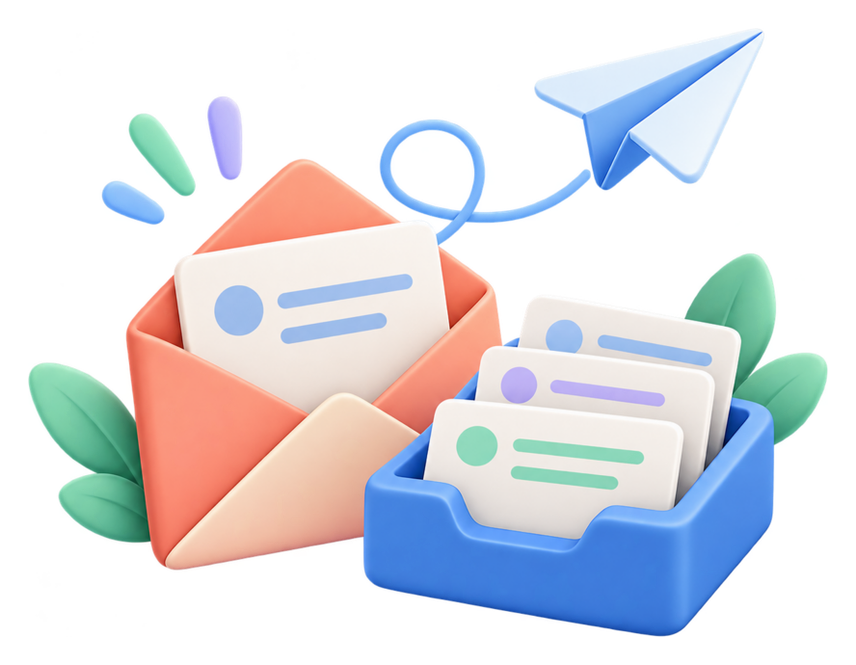
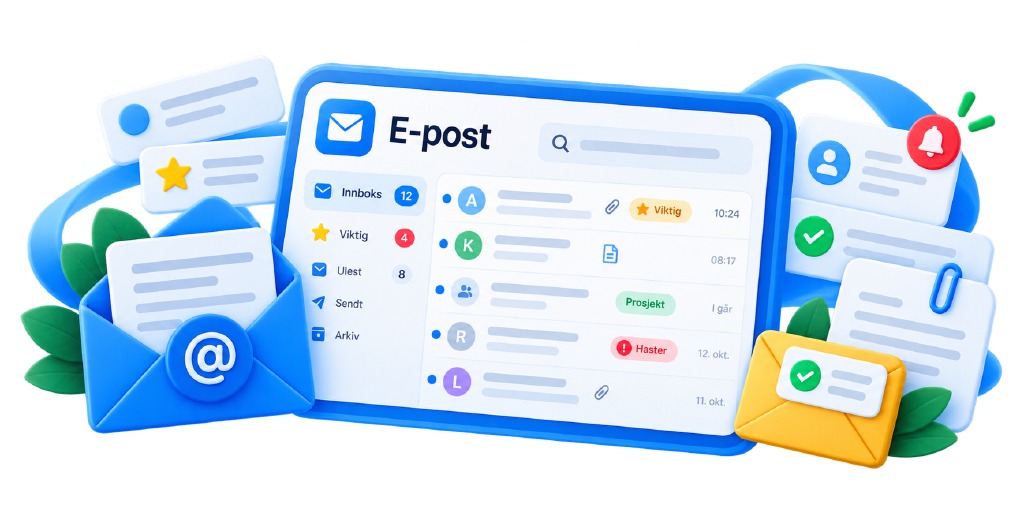
Vis heading-illustrasjoner på kalender, e-post, oppgaver, notat, venner, selskap og underenheter.
Bildene ligger i heading-båndet, samme spor som timerapport, timesaldo og vurdering av aktuelle.

diff --git a/src/modules/moduleHero.js b/src/modules/moduleHero.js
@@ -23,6 +23,7 @@ const DEFAULT_PALETTE = BLUE;
 export const MODULE_HERO = {
   stars: {
     ...BLUE,
+    wideArt: true,
     kicker: t('Oppgaver', 'Tasks'),
     title: t('Få oversikt og få ting gjort', 'See it all — and get it done'),
     pitch: t(
@@ -32,6 +33,7 @@ export const MODULE_HERO = {
   },
   notes: {
     ...LAVENDER,
+    wideArt: true,
     kicker: t('Notat', 'Notes'),
     title: t('Skap, samle og del tanker', 'Capture, collect and share ideas'),
     pitch: t(
@@ -202,6 +204,16 @@ export const MODULE_HERO = {
       'Give children clear tasks, the right amount of responsibility and encouragement to finish.',
     ),
   },
+  friends: {
+    ...BLUE,
+    wideArt: true,
+    kicker: t('Venner', 'Friends'),
+    title: t('Venner', 'Friends'),
+    pitch: t(
+      'Familien din vises øverst. Venner er personlige — de får ikke tilgang til familieplattformen.',
+      'Your family is shown first. Friends are personal — they never get family platform access.',
+    ),
+  },
   chat: {
     ...BLUE,
     kicker: t('Chat', 'Chat'),
@@ -213,6 +225,7 @@ export const MODULE_HERO = {
   },
   plan: {
     ...BLUE,
+    wideArt: true,
     kicker: t('Kalender', 'Calendar'),
     title: t('Din kalender, én plan', 'Your calendar, one plan'),
     pitch: t(
@@ -222,6 +235,7 @@ export const MODULE_HERO = {
   },
   mail: {
     ...BLUE,
+    wideArt: true,
     kicker: t('E-post', 'Mail'),
     title: t('Viktige meldinger, samlet', 'Important messages, together'),
     pitch: t(

diff --git a/src/modules/moduleActivationLogic.js b/src/modules/moduleActivationLogic.js
@@ -18,7 +18,7 @@ export const ILLUSTRATION_DIR = '/assets/module-activation';
 /** Bump when illustration bytes change. Filenames stay stable, so web URLs
  *  must change or browsers keep the old PNG (Firebase caches /assets/* as
  *  immutable for a year). */
-export const ILLUSTRATION_CACHE = '20261015c';
+export const ILLUSTRATION_CACHE = '20261015d';
 
 export function withIllustrationCache(path) {
   if (!path) return path;
@@ -33,6 +33,7 @@ export const ILLUSTRATION_FILES = {
   mail: 'e-post--module-activation-illustration.png',
   stars: 'oppgaver--module-activation-illustration.png',
   notes: 'notat--module-activation-illustration.png',
+  friends: 'venner--module-activation-illustration.png',
   chat: 'chat--module-activation-illustration.png',
   chores: 'gjoremal--module-activation-illustration.png',
   shop: 'handleliste--module-activation-illustration.png',
@@ -88,6 +89,7 @@ export const ILLUSTRATION_FILES = {
   'okonomi-oversikt': 'okonomi-oversikt--module-activation-illustration.png',
   'okonomi-utlegg': 'okonomi-utlegg--module-activation-illustration.png',
   selskap: 'selskap--module-activation-illustration.png',
+  underenheter: 'underenheter--module-activation-illustration.png',
 };
 
 /** Tighter phone compositions. Tablet and desktop keep ILLUSTRATION_FILES. */

diff --git a/src/modules/moduleActivationAssets.js b/src/modules/moduleActivationAssets.js
@@ -17,6 +17,7 @@ const BUNDLED = {
   mail: require('../../assets/module-activation/e-post--module-activation-illustration.png'),
   stars: require('../../assets/module-activation/oppgaver--module-activation-illustration.png'),
   notes: require('../../assets/module-activation/notat--module-activation-illustration.png'),
+  friends: require('../../assets/module-activation/venner--module-activation-illustration.png'),
   chat: require('../../assets/module-activation/chat--module-activation-illustration.png'),
   chores: require('../../assets/module-activation/gjoremal--module-activation-illustration.png'),
   shop: require('../../assets/module-activation/handleliste--module-activation-illustration.png'),
@@ -72,6 +73,7 @@ const BUNDLED = {
   'okonomi-oversikt': require('../../assets/module-activation/okonomi-oversikt--module-activation-illustration.png'),
   'okonomi-utlegg': require('../../assets/module-activation/okonomi-utlegg--module-activation-illustration.png'),
   selskap: require('../../assets/module-activation/selskap--module-activation-illustration.png'),
+  underenheter: require('../../assets/module-activation/underenheter--module-activation-illustration.png'),
 };
 
 const BUNDLED_PHONE = {

diff --git a/src/modules/companyHero.js b/src/modules/companyHero.js
@@ -119,6 +119,7 @@ export const COMPANY_HERO = {
   },
   underenheter: {
     ...SLATE,
+    wideArt: true,
     name: 'Underenheter',
     kicker: t('Selskap', 'Company'),
     title: t('Underenheter og konsern', 'Units and group'),
